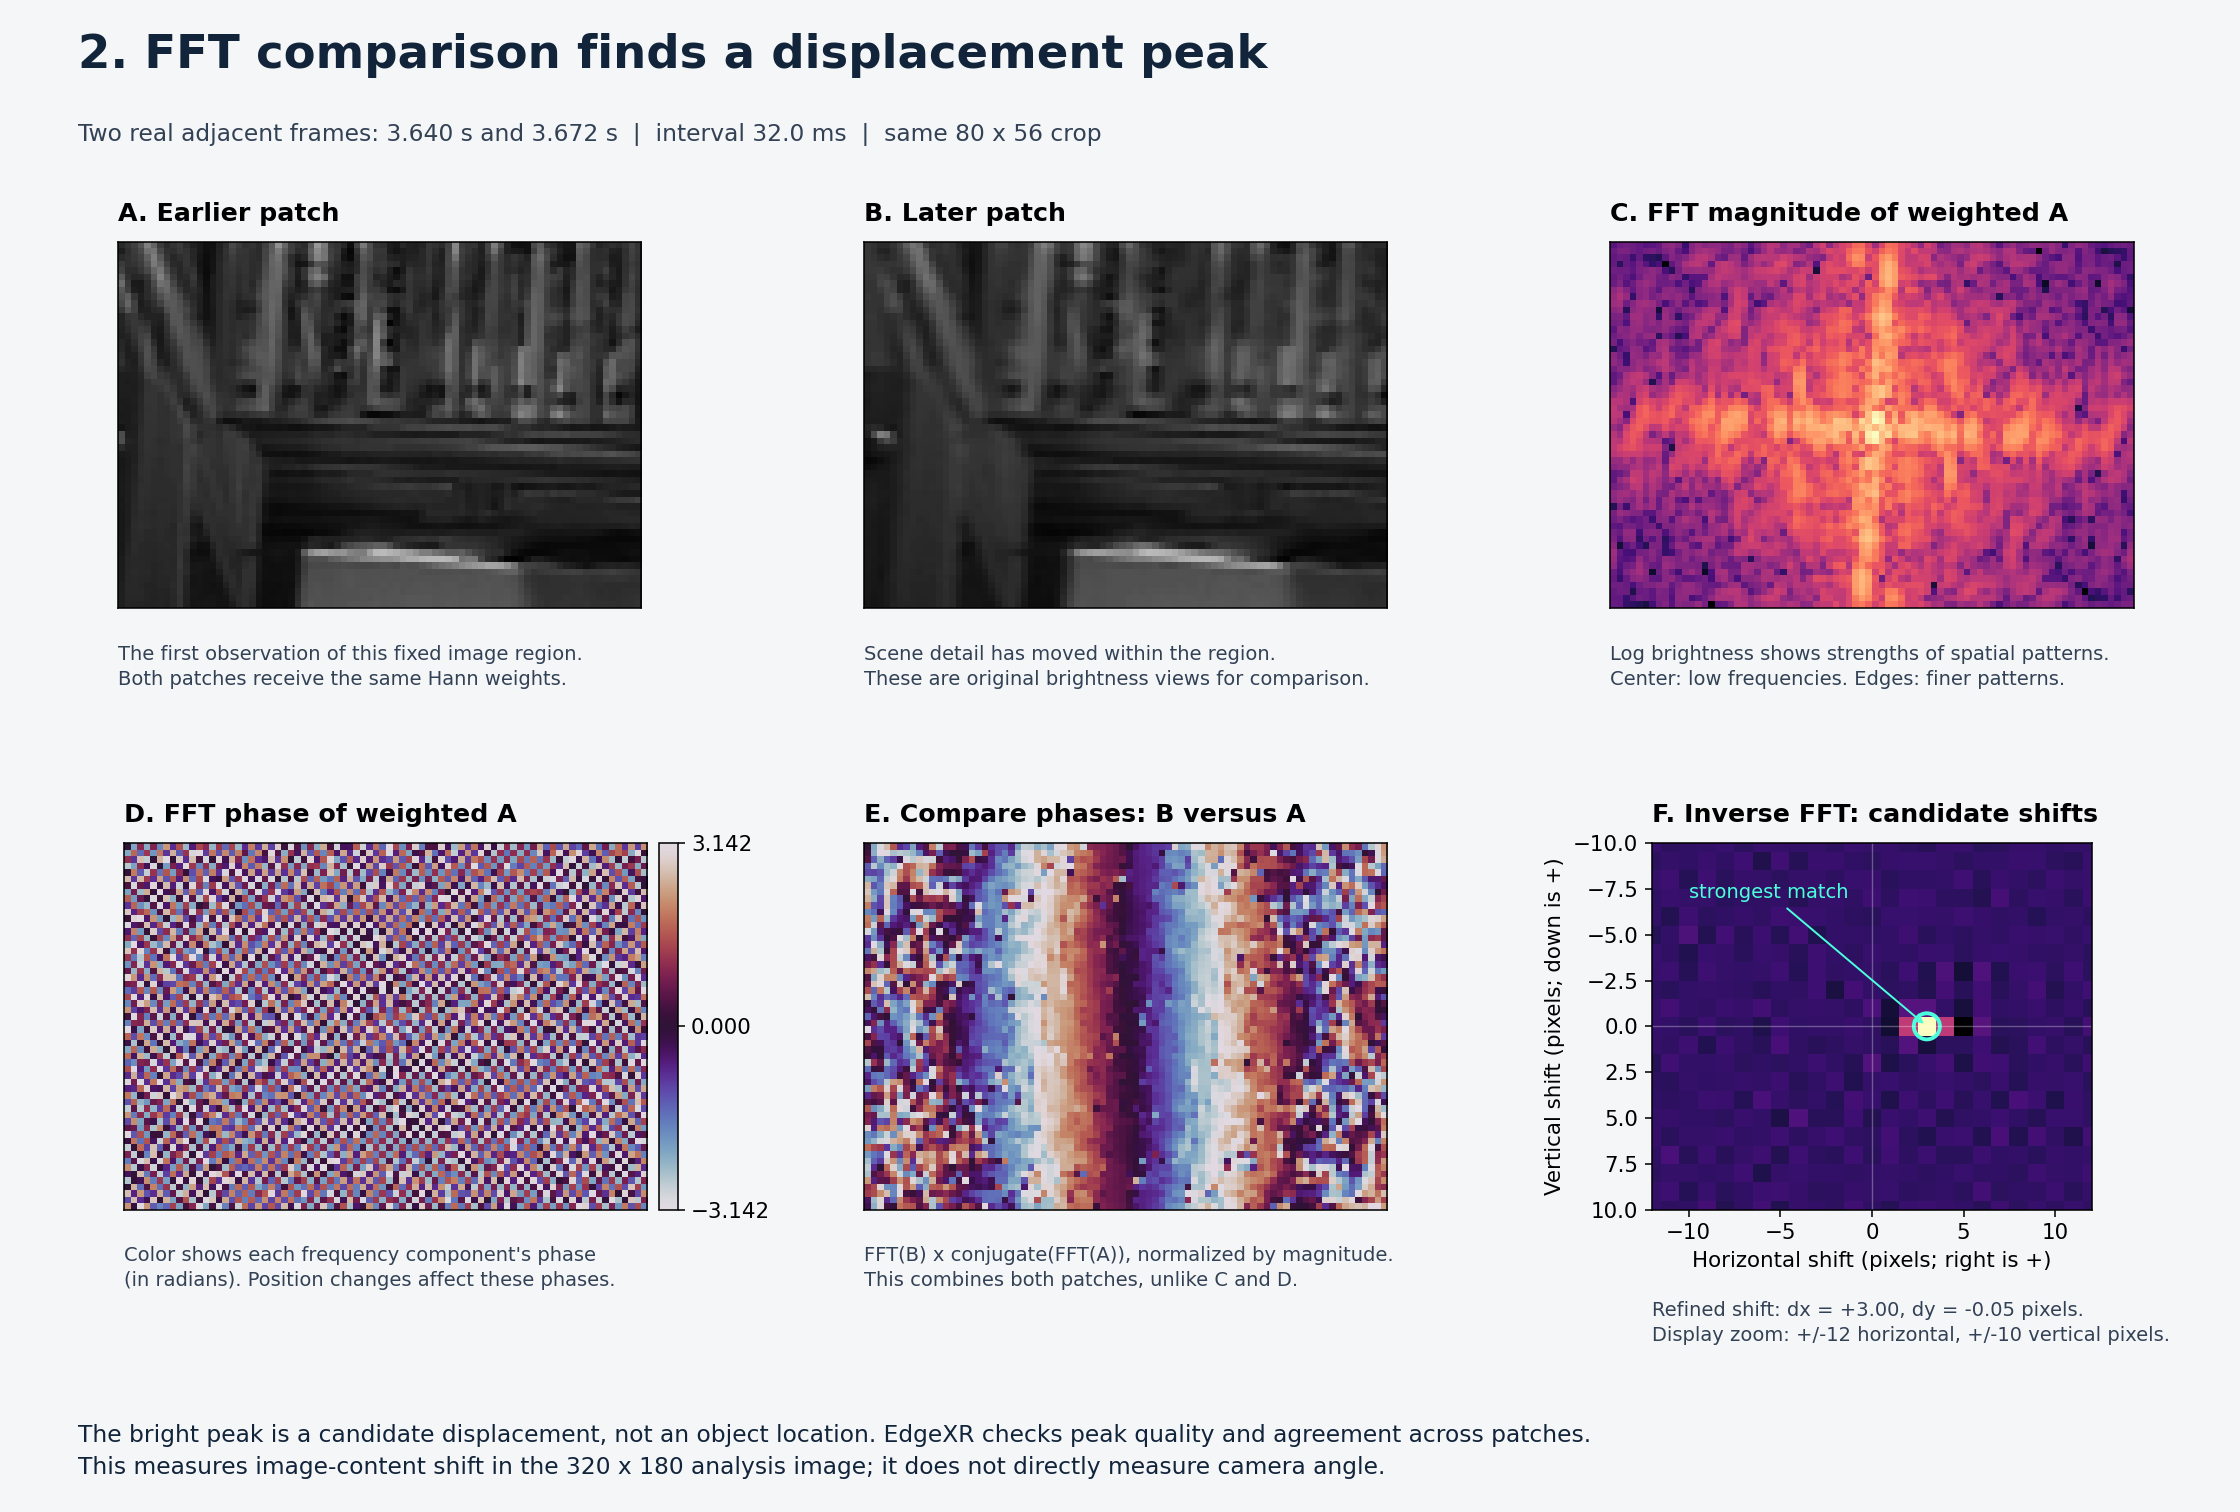
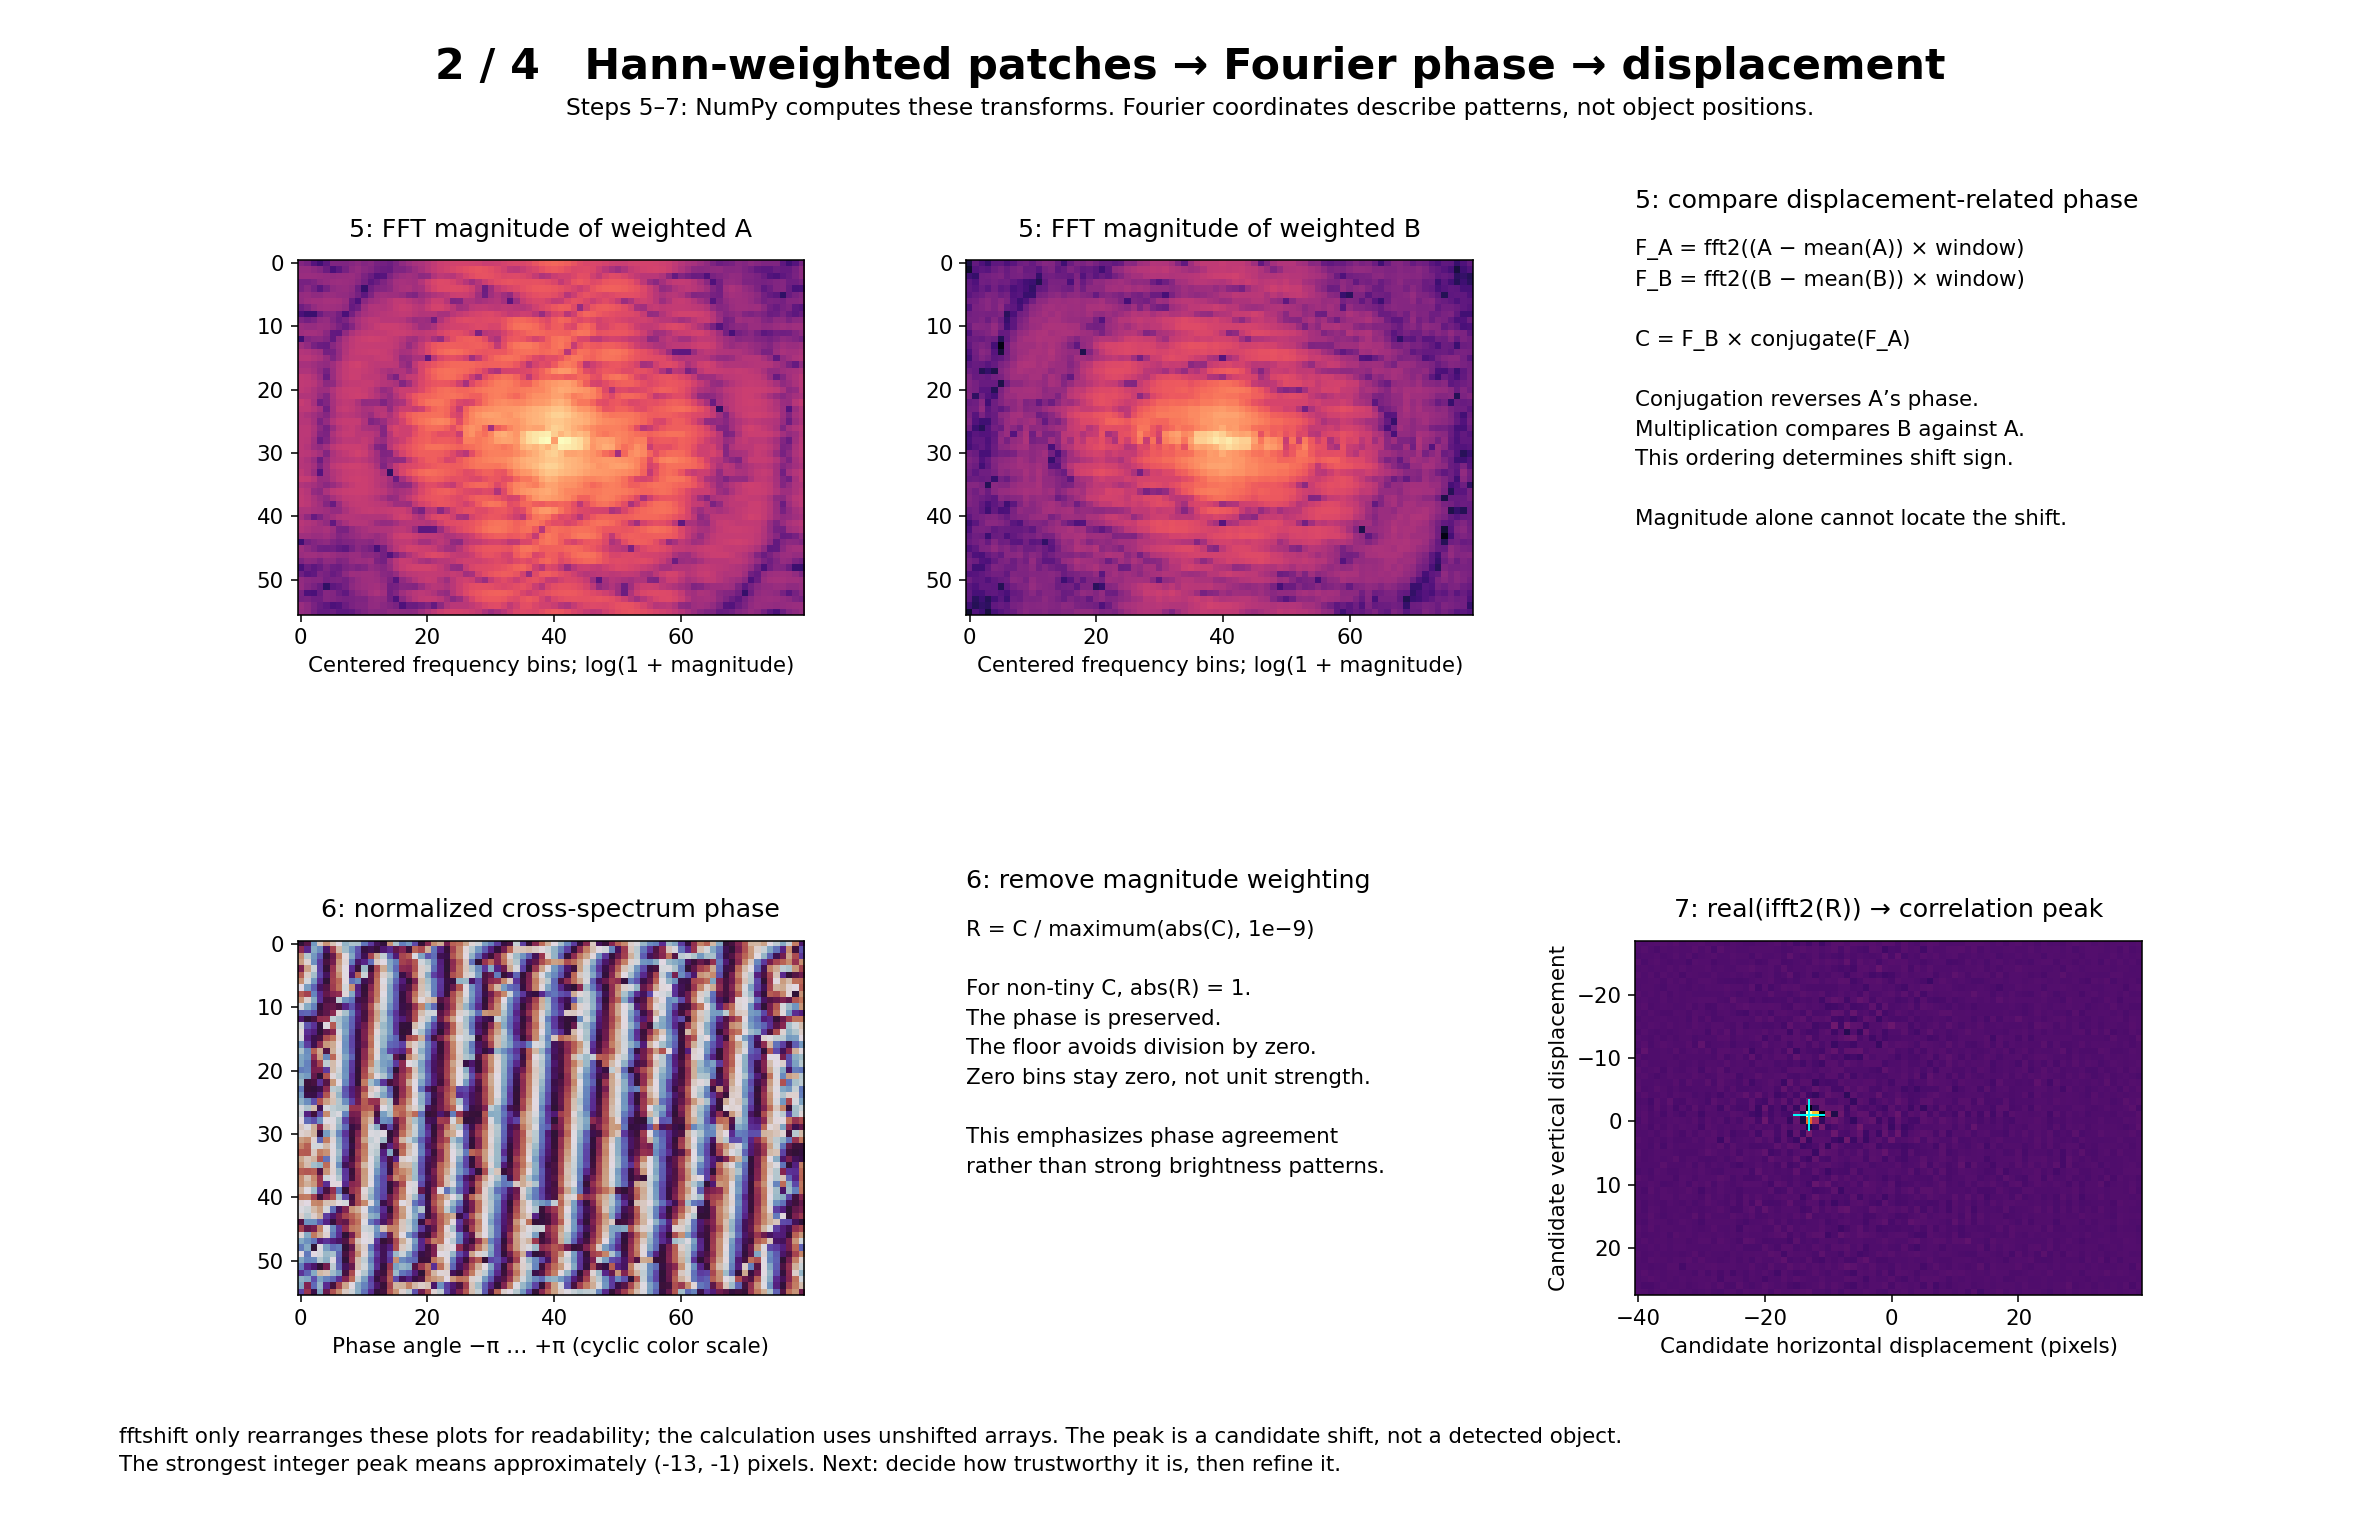
docs: expand Hann and FFT walkthrough with clearer motion example

diff --git a/docs/learning/HANN_FFT_WALKTHROUGH.md b/docs/learning/HANN_FFT_WALKTHROUGH.md
@@ -1,0 +1,179 @@
+# From a real image pair to a subpixel motion estimate
+
+Follow `patch_shift(first, second)` in
+[visual_motion.py](../../src/recording/visual_motion.py). These four boards trace
+the existing implementation; no estimator behavior was changed.
+
+## The selected example
+
+The source is the user's local `combined-motion-02/camera.mkv`. Zero-based
+decoded frames 313 and 316 have presentation timestamps 10.521 and 10.621 seconds.
+They are **three frame intervals apart**, deliberately selected to make motion
+visible, not adjacent frames and not a synthetic translation. FFmpeg prepares
+320×180 grayscale frames. We select the same 80×56 rectangle in both images:
+`frame[119:175, 117:197]`. Array shape is `(height, width) = (56, 80)`.
+
+Look at the bright circular feature and nearby vertical border: they move left.
+The calculated patch shift is `dx=-12.6317, dy=-0.7574` analysis pixels.
+This is an estimator output, not independently measured ground truth.
+The source footage stays outside Git; only illustrated teaching figures and
+[numeric intermediates](images/hann-fft-example.json) are stored here.
+
+## Steps 1–4: useful pixels and soft boundaries
+
+![Real patch pair, checks and Hann weighting](images/hann-window-explained.png)
+
+### 1. Validate shapes and numbers
+
+`first.shape != second.shape`, `first.ndim != 2`, and
+`min(first.shape) < 16` reject incompatible or too-small arrays with `ValueError`.
+The finite-number check also raises `ValueError` for NaN or infinity.
+One ordering clarification: **the code performs the float conversion in step 2
+before the finite-number check**, although both belong to input validation.
+
+### 2. Convert pixels to floating point
+
+`a, b = first.astype(float), second.astype(float)` converts the unsigned 8-bit
+pixels to floating point (float64 here). Original pixel values span 0–255;
+subtraction and multiplication will need negative and fractional results.
+This is arithmetic preparation, not MobileNet's input normalization.
+
+### 3. Reject nearly featureless patches
+
+`min(a.std(), b.std()) < 3` returns `None`. This is the standard deviation of
+pixel intensities within each patch, not a measure of motion over time.
+An almost uniform wall offers little pattern to match. Here the standard
+deviations are 39.8574 and 35.3328, so both pass. Passing is a prerequisite,
+not proof of a correct match.
+
+### 4. Remove the mean, then apply the Hann window
+
+`np.outer(np.hanning(56), np.hanning(80))` creates one separable 2D window for
+the whole patch. It has zero outer-edge weights and near-one central weights.
+For A the calculation is `(a - a.mean()) * window`; B is handled separately.
+The means are 40.3433 and 33.5109. Red/blue in the figure show positive/negative
+deviations, not literal red/blue scene colors. White represents zero.
+
+The discrete Fourier representation treats opposite edges as joined in a
+periodic repetition. A bright right edge meeting a dark left edge would create
+an artificial jump. Tapering both toward zero reduces that jump; the same
+applies to top and bottom. This is not a sliding CNN kernel, pixel-border blur,
+or selection of a single central dot. Windowing can also change the estimate:
+it is not a guarantee of perfect translation recovery.
+
+## Steps 5–7: from spatial patterns to candidate displacements
+
+![Fourier comparison and correlation peak](images/fft-motion-explained.png)
+
+### 5. Compute FFTs and compare phase
+
+`np.fft.fft2` converts each weighted patch into complex coefficients describing
+spatial frequency patterns. Magnitude describes strength; phase describes
+alignment. A translation changes phases systematically. The calculation is
+`cross = F_B * np.conj(F_A)`: conjugation reverses A's phase, so multiplication
+compares B's phase with A's. Reversing the order would reverse the shift sign.
+
+The FFT magnitude figures show `log(1 + abs(F))` with a shared color range.
+They are not object maps. `fftshift` centers only the displayed arrays; it is
+not part of `patch_shift()`'s calculation. **NumPy supplies the Fourier math**,
+not MobileNet or OpenCV's detector.
+
+### 6. Normalize the cross spectrum
+
+`cross /= np.maximum(np.abs(cross), 1e-9)` preserves phase while removing
+magnitude weighting from non-tiny coefficients. Their magnitude becomes one.
+The small floor prevents division by zero; an exactly zero coefficient remains
+zero. No bins in this particular example fall below the floor.
+
+This frequency-domain normalization is unrelated to scaling detector pixels
+into a model's expected numeric range.
+
+### 7. Inverse-transform and find the strongest peak
+
+`surface = np.fft.ifft2(cross).real` produces a correlation surface indexed by
+candidate shifts. `np.argmax` finds its strongest cell; `np.unravel_index`
+returns `(y, x)`. Here the raw index is `(55, 67)`, with value 0.496858.
+The peak describes displacement, not where an object is located in the patch.
+
+## Steps 8–9: is the peak distinctive?
+
+![Wrapped exclusion mask and quality calculation](images/fft-peak-quality.png)
+
+### 8. Exclude a wrapped 5×5 neighbourhood
+
+The boolean `mask` starts true. Offsets −2 through +2 around the peak are set
+false using modulo indexing. The excluded rows are `53, 54, 55, 0, 1` and
+columns `65, 66, 67, 68, 69`. Thus part of the neighbourhood appears at the
+top of the array and part at the bottom. Correlation indices wrap.
+
+This excludes **25 candidate-shift cells**, not 25 scene pixels. `side =
+surface[mask]` retains 4,455 of the 4,480 cells to characterize the background
+variation away from the peak.
+
+### 9. Compute peak quality
+
+The code computes `(peak - side.mean()) / max(side.std(), 1e-9)`.
+Here background mean is 0.000009174 and background standard deviation is
+0.009567192, yielding **Q = 51.9326**. Removing the peak neighbourhood keeps
+the peak from inflating its own background reference. A bigger value means a
+more prominent peak relative to these sidelobes. It is **not a probability**,
+percentage, or guarantee that the physical camera motion was measured correctly.
+
+## Steps 10–11: refine, unwrap and accept
+
+![Subpixel fits, signed indexing and final checks](images/fft-subpixel-refinement.png)
+
+### 10. Fit three samples and unwrap the index
+
+The nested `refine(index, values)` receives the row through the peak for X,
+then the column through it for Y. It reads the left/center/right neighbours
+with wraparound. A three-point parabola gives
+`fraction = 0.5 * (left - right) / (left - 2*center + right)`.
+If the denominator's absolute value is at most `1e-12`, it uses zero;
+otherwise the fraction is clipped to `[-0.5, +0.5]`.
+
+Raw indices above half the axis length are interpreted as negative shifts:
+
+| Axis | Raw index | Signed integer | Fraction | Refined shift |
+|---|---:|---:|---:|---:|
+| X, length 80 | 67 | 67 − 80 = −13 | +0.368280 | −12.631720 |
+| Y, length 56 | 55 | 55 − 56 = −1 | +0.242621 | −0.757379 |
+
+For Y, the right-hand neighbour of index 55 is index 0. These fractional
+estimates interpolate the correlation peak; they do not create new camera detail.
+
+### 11. Reject implausible or weak results; otherwise return
+
+The code returns `None` if Q < 8, `abs(dx) > width/4`, or
+`abs(dy) > height/4`. Here Q = 51.93, |dx| = 12.63 ≤ 20, and |dy| = 0.76 ≤ 14,
+so it returns `(dx, dy, quality)`.
+
+Positive dx means content moved right from A to B; positive dy means content
+moved down. This example moves left and slightly up. The live result is
+**analysis pixels per processed pair**, not pixels/second, degrees/second,
+or camera pose. A timestamp interval is necessary to calculate velocity;
+camera geometry and further assumptions are needed for angular interpretation.
+
+## Where this fits in EdgeXR
+
+`image_shift()` calls `patch_shift()` on nine fixed 80×56 patches in the
+320×180 image. These are sampled regions, not an exhaustive partition of every
+pixel. It requires at least four accepted patches, rejects estimates farther
+than 1.5 pixels from the median displacement, requires four remaining matches,
+then returns their median shift. This illustration follows **one patch**;
+the final whole-image estimate can differ.
+
+OpenCV is also a general image-processing library. With detection enabled,
+the live preview uses it to resize the motion branch and separately to prepare
+and run MobileNet-SSD. The detector's own input is not Hann-weighted.
+These offline figures use FFmpeg resizing; live OpenCV resizing can produce
+slightly different pixel values. No camera/IMU synchronization or hardware
+accuracy claim is established by this example.
+
+## Validation
+
+All intermediate values were calculated from the recorded pair and the final
+tuple matches the repository's `patch_shift()` within absolute tolerance
+`1e-12`. All four rendered figures were visually checked. The live pipeline
+diagram was reviewed; unchanged because this revision explains existing
+calculations without changing application code or data flow.

diff --git a/docs/learning/IMAGE_MOTION.md b/docs/learning/IMAGE_MOTION.md
@@ -184,29 +184,38 @@ pipes. The preview does not write raw images or recordings.
 
 ### Illustrated Hann window and FFT example
 
-These figures use actual adjacent frames from the local `combined-motion-02`
-recording at PTS 3.640 and 3.672 seconds. FFmpeg prepares the 320x180 grayscale
-image; the highlighted center patch is 80x56 pixels at `(x=117, y=62)`.
+Follow the [complete 11-step Hann/FFT walkthrough](HANN_FFT_WALKTHROUGH.md)
+alongside `patch_shift()`. The revised example uses actual frames 313 and 316
+from `combined-motion-02`, at PTS 10.521 and 10.621 seconds. They are three
+frame intervals apart to make the leftward shift clearer. FFmpeg prepares
+320x180 grayscale; the selected patch is 80x56 at `(x=117, y=119)`.
 The original video stays outside Git. The figures and
-[measurement notes](images/hann-fft-example.json) are saved teaching material.
+[numeric intermediates](images/hann-fft-example.json) are saved teaching material.
 
-![Nine patches, Hann weights and the weighted center patch](images/hann-window-explained.png)
+![Selected patch pair, validation and Hann weighting](images/hann-window-explained.png)
 
-Read panels A through D to see the patch selection and fading. Panel D multiplies
-raw brightness by the window for an intuitive picture. Panel E shows what the
-code actually transforms: `(patch - patch.mean()) * window`; its colors represent
-positive and negative brightness deviations. The window weights every pixel of
-the patch and tapers its outer border. It does not blur individual pixel borders.
+The first board covers input validation, floating-point conversion, texture
+rejection and the actual `(patch - patch.mean()) * window` calculation.
+Its red/blue colors represent positive/negative brightness deviations.
+The window tapers the whole patch's outer border, not individual pixel borders.
 
 ![Two recorded patches, Fourier representations and a displacement peak](images/fft-motion-explained.png)
 
-The second figure distinguishes FFT magnitude (pattern strength) from phase.
-The normalized cross spectrum compares the two frames; its inverse FFT peaks
-at a candidate displacement. For this selected patch, the refined estimate is
-approximately `dx=+3.00`, `dy=-0.05` pixels in the 320x180 analysis image.
-That peak represents displacement, not an object's location. The full image
-estimate separately combines agreeing patches, so it can differ from this one.
+The second board follows FFT, cross-spectrum normalization and inverse FFT.
+The peak represents a candidate displacement, not an object's location.
 Frequency plots are centered and magnitude is log-scaled for readability.
+
+![Wrapped peak exclusion and quality](images/fft-peak-quality.png)
+
+The third board shows the actual wrapped 5x5 exclusion and calculation of
+quality `Q=51.93`. This is not a probability.
+
+![Subpixel refinement and final acceptance](images/fft-subpixel-refinement.png)
+
+The fourth board shows the three-point fit, signed-index unwrapping and final
+rejection checks. The accepted estimate is `dx=-12.63, dy=-0.76` analysis
+pixels per pair, not pixels/second or degrees/second. The full-image estimator
+separately combines agreeing patches, so it can differ from this one.
 
 OpenCV is a general image-processing library: live detection mode uses it both
 to resize the motion image and to prepare/run MobileNet-SSD. NumPy performs
